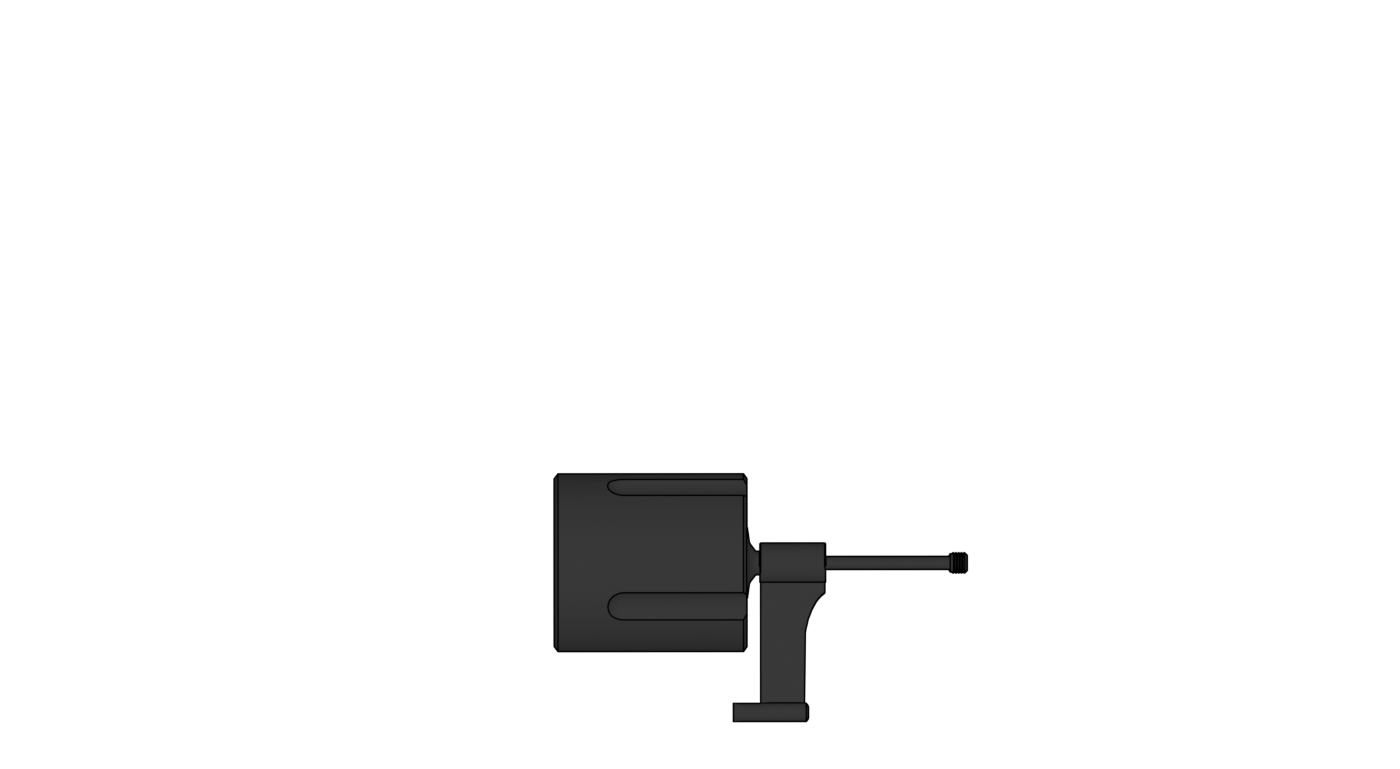
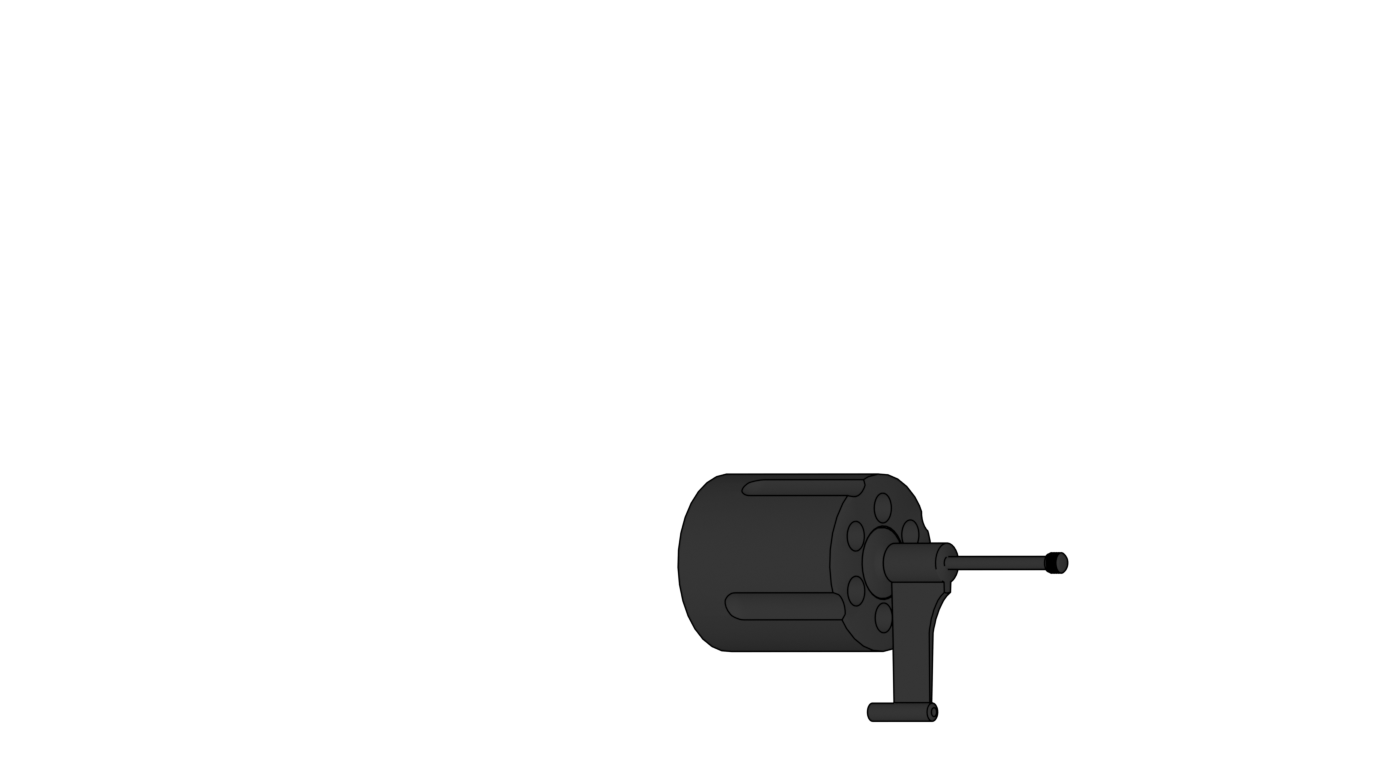
staging: publish www/ from master 79b438b
Content is byte-identical to master's committed www/ (tree 775f8a57b3cd195a4eea2b2151368445384d93ce).
Published by deploy-staging.sh.

Changed region(s): [[0.3686, 0.593, 0.7679, 0.9675]]

diff --git a/index.html b/index.html
@@ -1621,7 +1621,7 @@
       cleanIntro:"A double-action revolver never gets field stripped for routine cleaning \u2014 no parts come off. Four zones: bore, chambers, cylinder face and frame, then a wipe and a few precise drops of oil.",
       steps:[
         {phase:"Clear",title:"Confirm the revolver is clear",body:"Verified at the safety gate \u2014 cylinder open, every chamber checked by sight and by touch. Count the empty chambers. Muzzle in a safe direction throughout.",t:{},hl:[],labels:[],arrow:null},
-        {phase:"Strip",title:"Swing out the cylinder",body:"Press the cylinder release and swing the cylinder out on its crane, supporting the cylinder with your off-hand fingers as it comes — the revolver's entire timing and alignment live in that one thin crane arm. That's the whole disassembly: a modern DA revolver cleans from exactly here.",warn:"Never remove the sideplate. Internal lockwork is fitted at the factory \u2014 sideplate removal is gunsmith work and can void your warranty.",t:{},hl:[],labels:[],arrow:null},
+        {phase:"Strip",title:"Swing out the cylinder",body:"Press the cylinder release and swing the cylinder out on its crane, supporting the cylinder with your off-hand fingers as it comes — the revolver's entire timing and alignment live in that one thin crane arm. That's the whole disassembly: a modern double-action revolver cleans from exactly here.",warn:"Never remove the sideplate. Internal lockwork is fitted at the factory \u2014 sideplate removal is gunsmith work and can void your warranty.",t:{},hl:[],labels:[],arrow:null},
         {phase:"Strip",title:"Ready to clean",body:"With the cylinder open, the bore, every chamber, the cylinder face, and the frame window are all reachable. Two habits that keep a revolver honest: scrub the carbon rings off the cylinder face and the forcing cone where the flame cuts — buildup there is what degrades accuracy — and when you finish, close the cylinder with your hand. Flicking it shut movie-style bends the crane and ruins the timing you just protected. Want to go deeper? The optional DEEP CLEAN path covers the ejector star, charge holes, forcing cone, and yoke.",t:{},hl:[],labels:[],arrow:null,branch:true}
       ],
       deepSteps:[
@@ -3542,11 +3542,11 @@ const EXP_LAYERS=[{n:"mag",asm:[18.23,-32.23],exp:[0,2],src:"assets/guns/glock/m
      touch. idx4 is a FULL SWAP: frame + cylinder hidden, det_bores alone on the canvas. */
   const REVDA_LSTEPS=[
     /* 0 clear */        {pos:{frame:"a",cylinder:"a",...REVDAX},hl:null,m:null},
-    /* 1 swing out */    {pos:{frame:"a",cylinder:["e",0,-6,1.24],...REVDAX},hl:"cylinder",m:[{x:31.7,y:26.7,r:4.6},{x:52,y:53,r:4.6}]},
+    /* 1 swing out */    {pos:{frame:"a",cylinder:["e",0,-6,1.24],...REVDAX},hl:"cylinder",m:[{x:34.64,y:25.76,r:4.6},{x:62.15,y:85.64,r:4.6}]},
     /* 2 ready */        {pos:{frame:"a",cylinder:["e",0,-6,1.24],...REVDAX},hl:null,m:null},
-    /* 3 ejector star */ {pos:{frame:"a",cylinder:["e",0,-6,1.24],...REVDAX},hl:"cylinder",m:{x:41,y:73,r:4.6}},
-    /* 4 charge holes */ {pos:{frame:"x",cylinder:"x",...REVDAX,det_bores:"e"},hl:null,m:{x:51.25,y:49.21,r:3.6}},
-    /* 5 forcing cone */ {pos:{frame:"a",cylinder:["e",0,-6,1.24],...REVDAX},hl:"frame",m:{x:53.8,y:17.8,r:2.5}},
+    /* 3 ejector star */ {pos:{frame:"a",cylinder:["e",0,-6,1.24],...REVDAX},hl:"cylinder",m:null}, /* ring DELETED 2026-07-28: the ejector star is not modelled (model gap); step is copy-only. det_star stays a pass-2 candidate. */
+    /* 4 charge holes */ {pos:{frame:"x",cylinder:"x",...REVDAX,det_bores:"e"},hl:null,m:{x:49.7,y:50.55,r:3.6}},
+    /* 5 forcing cone */ {pos:{frame:"a",cylinder:["e",0,-6,1.24],...REVDAX},hl:"frame",m:{x:53.38,y:17.93,r:2.5}},
     /* 6 yoke */         {pos:{frame:"a",cylinder:["e",0,-6,1.24],...REVDAX},hl:"frame",m:null}
   ];
   /* ---- Single-action revolver layer set (Fieldstrip 3D pipeline, muzzle-right standard) ---- */
